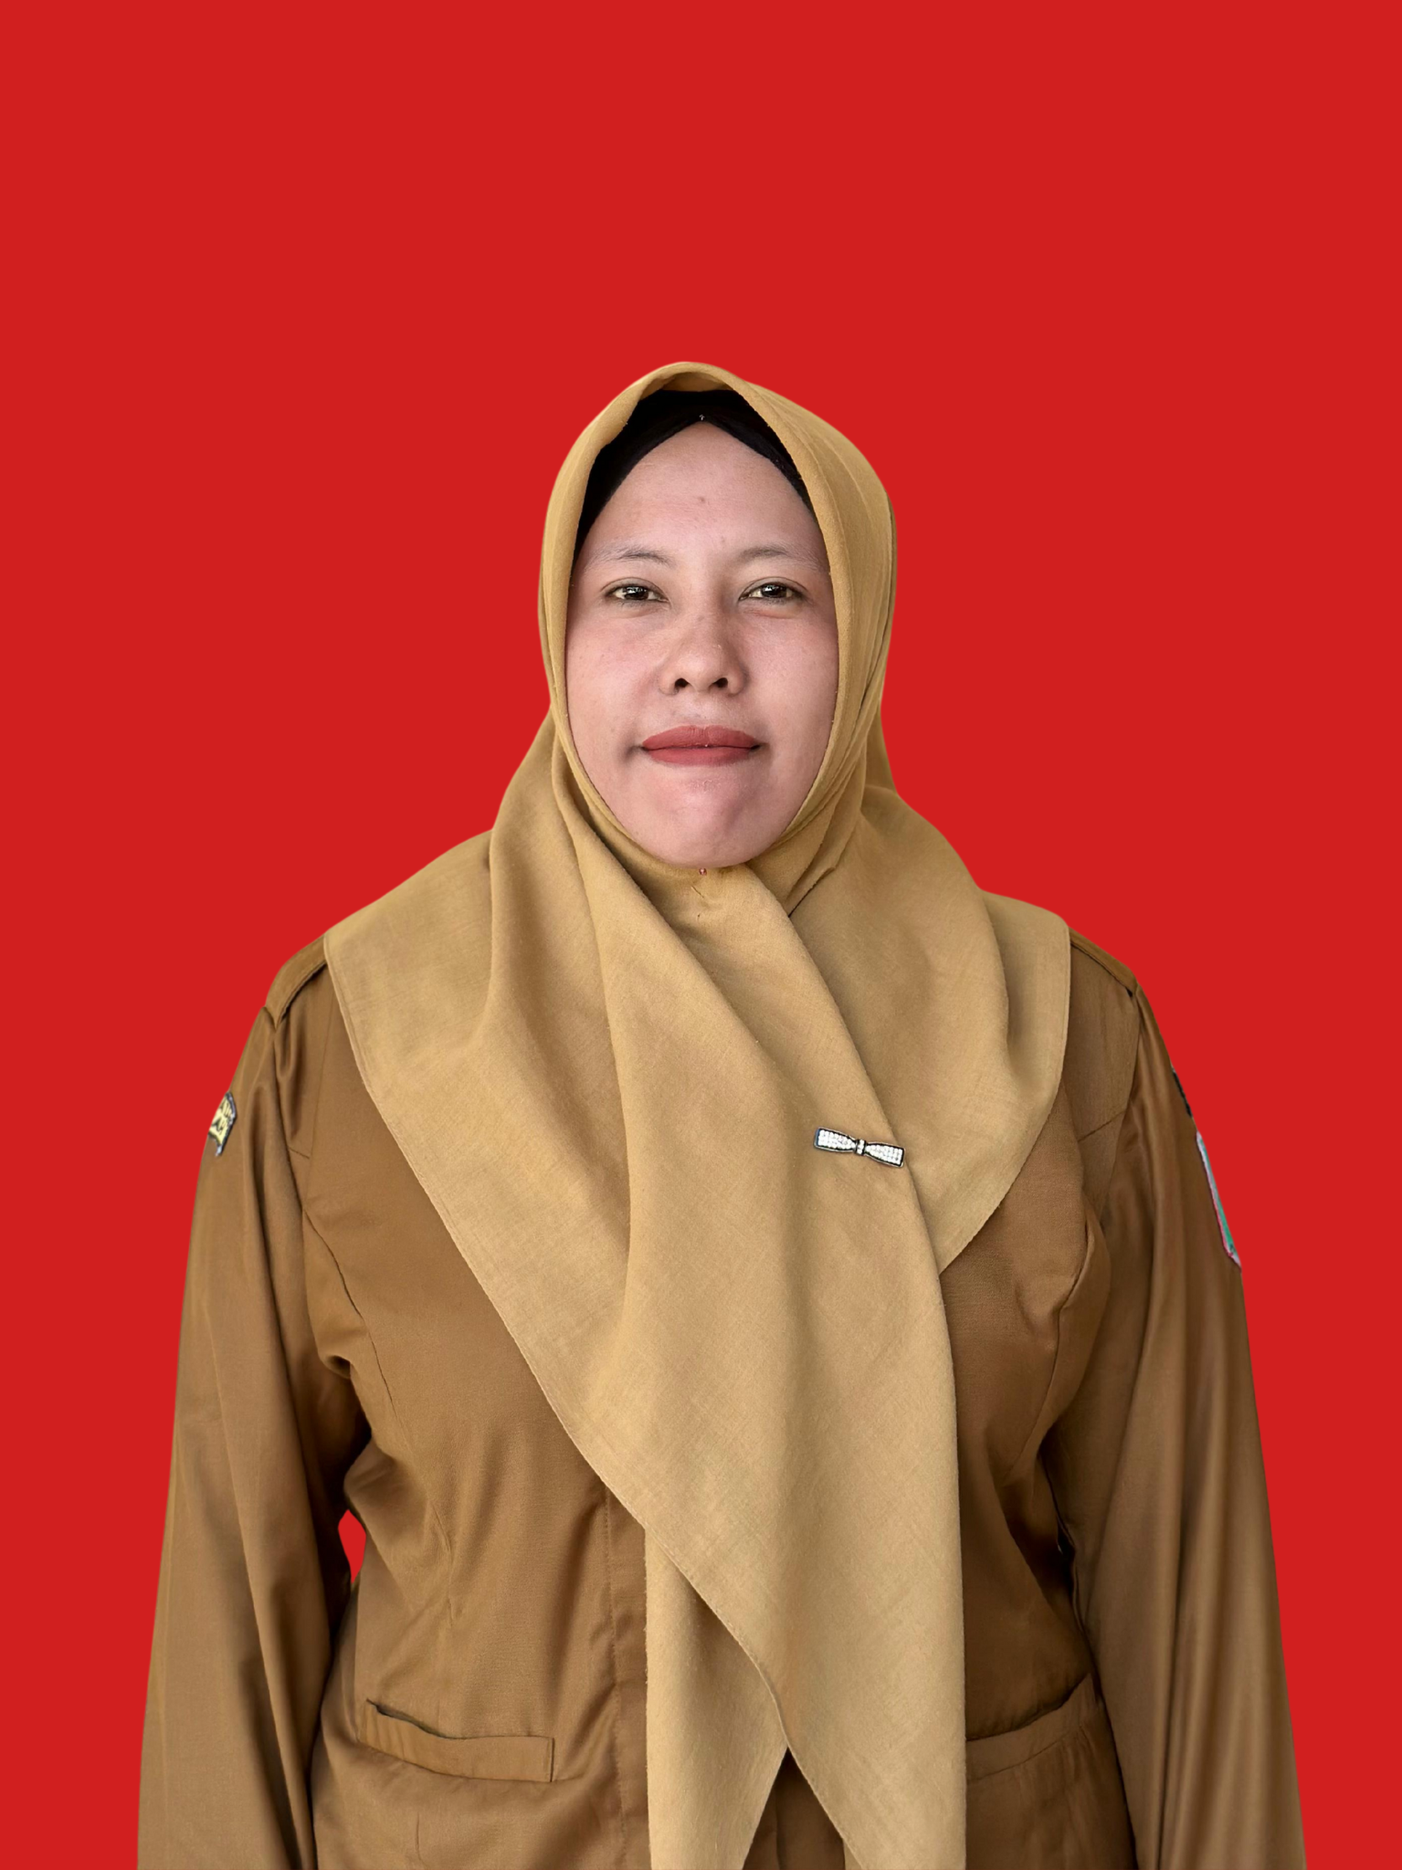
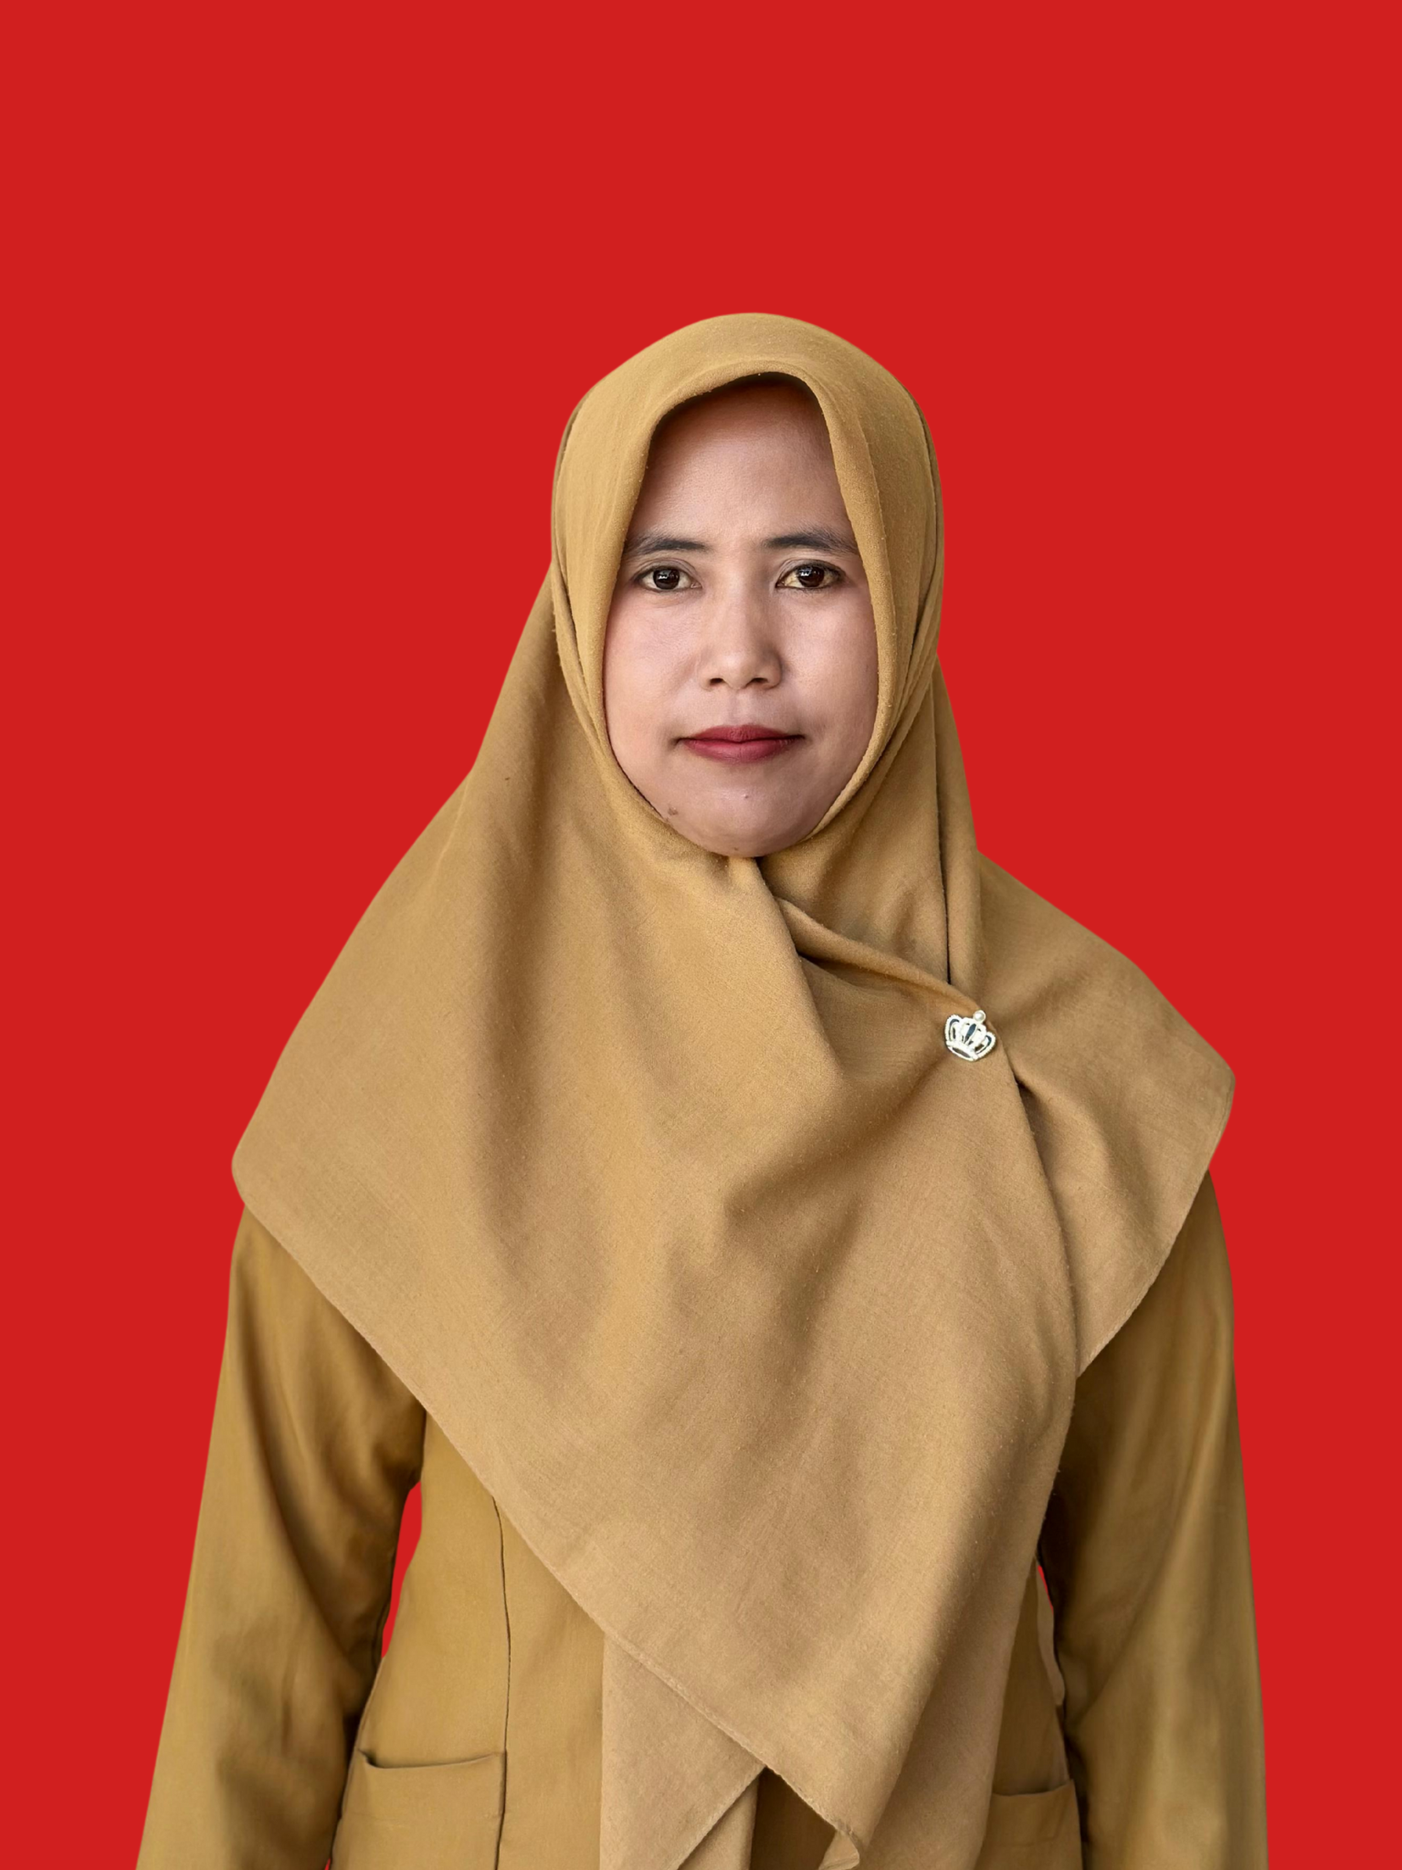
final web

diff --git a/src/pages/Profil.jsx b/src/pages/Profil.jsx
@@ -1,23 +1,13 @@
-// import React from 'react'
 import React, { useState } from 'react';
-import { Link } from 'react-router-dom';
-import { MapPin, Navigation, Phone, Mail } from 'lucide-react';
-
 import Slider from "react-slick";
 import { FaChevronLeft, FaChevronRight } from "react-icons/fa";
 
-import { IoIosHome } from "react-icons/io";
-import { FaChartBar } from "react-icons/fa";
-import { FaStore } from "react-icons/fa";
 import { CiLocationOn } from "react-icons/ci";
 import { IoCallOutline } from "react-icons/io5";
 import { CiMail } from "react-icons/ci";
 import { FaFacebook } from "react-icons/fa";
 import { FaSquareInstagram } from "react-icons/fa6";
-import { FaYoutube } from "react-icons/fa";
-import { FaTiktok } from "react-icons/fa";
 
-import desa from '../images/bgdesa.jpg'; 
 import sejarah from '../images/sejarah.jpg'; 
 import logo from '../images/logo.png'; 
 import bagan from '../images/bagan.png'; 
@@ -32,9 +22,9 @@ import kaum from '../images/perdesa/abdulhakim.png';
 import kuu from '../images/perdesa/satimin.png';
 import ksp from '../images/perdesa/nurhayati.png';
 import kspm from '../images/perdesa/rohman.png';
-
-
-
+import kuk from '../images/perdesa/helmi.png';
+import kup from '../images/perdesa/asan.png';
+import ksk from '../images/perdesa/abdulkholik.png';
 import kasteng from '../images/perdesa/ririd.png';
 import kaspel from '../images/perdesa/amir.png';
 import kasbring from '../images/perdesa/buari.png';
@@ -67,19 +57,19 @@ const perangkatDesa = [
     foto: kspm,
   },
   {
-    nama: "test6",
-    jabatan: "Senior Business Consultant",
-    foto: kades,
+    nama: "Helmi Afdilatur Rohma",
+    jabatan: "Kepala Urusan Keuangan",
+    foto: kuk,
   },
   {
-    nama: "test7",
-    jabatan: "Senior Business Consultant",
-    foto: kades,
+    nama: "Asan",
+    jabatan: "Kepala Urusan Perencanaan",
+    foto: kup,
   },
   {
-    nama: "test8",
-    jabatan: "Senior Business Consultant",
-    foto: kades,
+    nama: "Abdul Kholik",
+    jabatan: "Kepala Seksi Kesejahteraan",
+    foto: ksk,
   },
   {
     nama: "Ririd",
@@ -102,41 +92,41 @@ function Profil() {
   const [isMenuOpen, setIsMenuOpen] = useState(false);
   const CustomPrevArrow = (props) => (
     <div
-      className="absolute left-[-30px] top-1/2 transform -translate-y-1/2 z-10 cursor-pointer text-teal-400"
+      className="absolute left-[-30px] top-1/2 transform -translate-y-1/2 z-10 cursor-pointer text-black"
       onClick={props.onClick}
     >
-      <FaChevronLeft size={36} />
+      <FaChevronLeft size={40} />
     </div>
   );
 
   const CustomNextArrow = (props) => (
     <div
-      className="absolute right-[-30px] top-1/2 transform -translate-y-1/2 z-10 cursor-pointer text-teal-400"
+      className="absolute right-[-30px] top-1/2 transform -translate-y-1/2 z-10 cursor-pointer text-black"
       onClick={props.onClick}
     >
-      <FaChevronRight size={36} />
+      <FaChevronRight size={40} />
     </div>
   );
   const settings = {
     dots: false,
     infinite: true,
     speed: 500,
-    slidesToShow: 5, // default for desktop
+    slidesToShow: 6, 
     slidesToScroll: 1,
     prevArrow: <CustomPrevArrow />,
     nextArrow: <CustomNextArrow />,
     responsive: [
         {
         breakpoint: 1280, // lg screen
-        settings: { slidesToShow: 4 },
+        settings: { slidesToShow: 5 },
         },
         {
         breakpoint: 1024, // md screen
-        settings: { slidesToShow: 3 },
+        settings: { slidesToShow: 4 },
         },
         {
         breakpoint: 640, // sm screen
-        settings: { slidesToShow: 2 },
+        settings: { slidesToShow: 3 },
         },
     ],
     };
@@ -145,11 +135,6 @@ function Profil() {
         lat: -7.9890703,
         lng: 113.2306519,
         address: "Jl. Gn. Ringgit, Bringinan, Tegalciut, Kec. Klakah, Kabupaten Lumajang, Jawa Timur 67356"
-    };
-
-    const handleMapClick = () => {
-        const googleMapsUrl = `https://www.google.com/maps/search/?api=1&query=${balaiLocation.lat},${balaiLocation.lng}`;
-        window.open(googleMapsUrl, '_blank');
     };
 
     useEffect(() => {
@@ -184,8 +169,7 @@ function Profil() {
                 </svg>
                 </button>
             </div>
-            {/* Navigation Links (Desktop & Mobile) */}
-            {/* For desktop: flex, For mobile: hidden by default, visible when menu is open */}
+            {/* menu */}
             <nav className={`${isMenuOpen ? 'block' : 'hidden'} md:flex md:space-x-6 absolute md:static top-16 right-4 bg-white md:bg-transparent p-4 md:p-0 rounded-lg shadow-lg md:shadow-none w-48 md:w-auto`}>
                 <ul className='flex flex-col md:flex-row md:space-x-6 space-y-2 md:space-y-0'>
                 <li>
@@ -231,7 +215,7 @@ function Profil() {
             <img src={bagan} alt="Bagan Organisasi Desa Tegal Ciut" className="w-full h-auto max-h-[600px] object-contain" />
         </div>
 
-        {/* struktur organisasi */}
+        {/* perangkat desa */}
         <div className='flex flex-col px-4 py-8 max-w-6xl mx-auto text-center' data-aos="zoom-in" data-aos-delay="400">
             <h2 className="text-2xl md:text-3xl font-bold text-slate-800 mb-9 font-raleway">Perangkat Desa Tegal Ciut</h2>
             <div className="relative w-full max-w-6xl mx-auto">
@@ -346,8 +330,8 @@ function Profil() {
 
         {/* sosmed */}
         <div className='flex justify-end px-9 py-5 gap-3'>
-          <a href="https://www.facebook.com/profile.php?id=61578902762060" target="_blank"><FaFacebook size={30} /></a>
-          <a href="https://www.instagram.com/desa_tegalciut_lumajang" target="_blank" ><FaSquareInstagram size={30} /></a>
+          <a href="https://www.facebook.com/profile.php?id=61578902762060" target="_blank" rel="noopener noreferrer"><FaFacebook size={30} /></a>
+          <a href="https://www.instagram.com/desa_tegalciut_lumajang" target="_blank" rel="noopener noreferrer"><FaSquareInstagram size={30} /></a>
         </div>
 
         <footer className="text-black text-center border-t border-black py-4 text-sm">

diff --git a/src/pages/Infografis.jsx b/src/pages/Infografis.jsx
@@ -2,16 +2,11 @@
 import React, { useState } from 'react';
 import { Link } from 'react-router-dom';
 
-import { IoIosHome } from "react-icons/io";
-import { FaChartBar } from "react-icons/fa";
-import { FaStore } from "react-icons/fa";
 import { CiLocationOn } from "react-icons/ci";
 import { IoCallOutline } from "react-icons/io5";
 import { CiMail } from "react-icons/ci";
 import { FaFacebook } from "react-icons/fa";
 import { FaSquareInstagram } from "react-icons/fa6";
-import { FaYoutube } from "react-icons/fa";
-import { FaTiktok } from "react-icons/fa";
 import { IoPeople } from "react-icons/io5";
 import { FaPeopleRoof } from "react-icons/fa6";
 import { IoIosWoman } from "react-icons/io";
@@ -19,16 +14,15 @@ import { IoMdMan } from "react-icons/io";
 import { BsPeopleFill } from "react-icons/bs";
 import { FaGlobe } from "react-icons/fa";
 
-import desa from '../images/bgdesa.jpg'; 
 import sdgs from '../images/sdgs.jpg'; 
 import logo from '../images/logo.png'; 
-import kue from '../images/kuekripik.jpg'; 
+import demografi from '../images/demografi.jpg'; 
 
 import AOS from 'aos';
 import 'aos/dist/aos.css';
 import { useEffect } from 'react';
 
-// conponents
+// components
 import Diagrampenduduk from '../components/Diagrampenduduk';
 import SDGsCardGrid from '../components/SDGsCardGrid';
 import Diagramdusun from '../components/DiagramDusun';
@@ -63,13 +57,13 @@ function Infografis() {
             {/* burger menu */}
             <div className='md:hidden'>
                 <button onClick={() => setIsMenuOpen(!isMenuOpen)} className='text-gray-800 focus:outline-none'>
-                <svg className='w-8 h-8' fill='none' stroke='currentColor' viewBox='0 0 24 24' xmlns='http://www.w3.org/2000/svg'>
-                    {isMenuOpen ? (
-                    <path strokeLinecap='round' strokeLinejoin='round' strokeWidth='2' d='M6 18L18 6M6 6l12 12'></path>
-                    ) : (
-                    <path strokeLinecap='round' strokeLinejoin='round' strokeWidth='2' d='M4 6h16M4 12h16M4 18h16'></path>
-                    )}
-                </svg>
+                    <svg className='w-8 h-8' fill='none' stroke='currentColor' viewBox='0 0 24 24' xmlns='http://www.w3.org/2000/svg'>
+                        {isMenuOpen ? (
+                        <path strokeLinecap='round' strokeLinejoin='round' strokeWidth='2' d='M6 18L18 6M6 6l12 12'></path>
+                        ) : (
+                        <path strokeLinecap='round' strokeLinejoin='round' strokeWidth='2' d='M4 6h16M4 12h16M4 18h16'></path>
+                        )}
+                    </svg>
                 </button>
             </div>
             {/* Navigation Links (Desktop & Mobile) */}
@@ -101,19 +95,19 @@ function Infografis() {
                     onClick={() => setActiveTab('demografi')}
                     className={`flex flex-col items-center justify-center px-4 py-2 font-semibold w-28 sm:w-32 md:w-36 text-center ${activeTab === 'demografi' ? ' border border-black rounded-xl' : 'text-black '}`}
                     >
-                    <BsPeopleFill size={45} className='flex text-3xl sm:text-4xl md:text-5xl '/>
-                    <span className='text-sm sm:text-base md:text-lg'>
-                        Demografi
-                    </span>
+                        <BsPeopleFill size={45} className='flex text-3xl sm:text-4xl md:text-5xl '/>
+                        <span className='text-sm sm:text-base md:text-lg'>
+                            Demografi
+                        </span>
                     </button>
                     <button
                     onClick={() => setActiveTab('sdgs')}
                     className={`flex flex-col items-center justify-center px-4 py-2 font-semibold w-28 sm:w-32 md:w-36 text-center  ${activeTab === 'sdgs' ? 'border border-black rounded-xl' : 'text-black'}`}
                     >
-                    <FaGlobe size={45} className='flex ' />
-                    <span className='text-sm sm:text-base md:text-lg'>
-                        SDGs
-                    </span>
+                        <FaGlobe size={45} className='flex ' />
+                        <span className='text-sm sm:text-base md:text-lg'>
+                            SDGs
+                        </span>
                     </button>
                 </div>
             </div>
@@ -124,7 +118,7 @@ function Infografis() {
                     {/* atas */}
                     <div className='flex flex-col md:flex-row gap-6 items-center'>
                         <div className='w-full md:w-1/2' data-aos="zoom-in" data-aos-delay="400">
-                            <img src={kue} alt="" className="w-[500px] h-auto object-cover rounded-xl"/>
+                            <img src={demografi} alt="" className="w-[500px] h-auto object-cover rounded-xl"/>
                         </div>
                         <div className='w-full md:w-1/2 text-justify' data-aos="zoom-in" data-aos-delay="400">
                             <h2 className='text-xl md:text-2xl font-bold mb-2 text-slate-800'>DEMOGRAFI DESA TEGAL CIUT</h2>
@@ -156,7 +150,6 @@ function Infografis() {
                                     <p className="font-nunito text-lg">643 Jiwa/km²</p>
                                 </div>
                             </div>
-
                             {/* Kartu 3 */}
                             <div className="flex bg-slate-100 p-4 rounded-xl items-center gap-4 shadow" data-aos="zoom-in" data-aos-delay="400">
                                 <IoIosWoman size={56} className="text-pink-500" />
@@ -165,7 +158,6 @@ function Infografis() {
                                     <p className="font-nunito text-lg">2.309 Jiwa</p>
                                 </div>
                             </div>
-
                             {/* Kartu 4 */}
                             <div className="flex bg-slate-100 p-4 rounded-xl items-center gap-4 shadow" data-aos="zoom-in" data-aos-delay="400">
                                 <IoMdMan size={56} className="text-green-500" />

diff --git a/src/pages/Dashboard.jsx b/src/pages/Dashboard.jsx
@@ -1,4 +1,3 @@
-// import React from 'react'
 import React, { useState } from 'react';
 import { Link } from 'react-router-dom';
 
@@ -10,11 +9,8 @@ import { IoCallOutline } from "react-icons/io5";
 import { CiMail } from "react-icons/ci";
 import { FaFacebook } from "react-icons/fa";
 import { FaSquareInstagram } from "react-icons/fa6";
-import { FaYoutube } from "react-icons/fa";
-import { FaTiktok } from "react-icons/fa";
 
 import desa from '../images/bgdesa.jpg'; 
-import kkn from '../images/logokkn.png'; 
 import logo from '../images/logo.png'; 
 
 import { Swiper, SwiperSlide } from 'swiper/react';
@@ -32,7 +28,6 @@ import img3 from '../images/img3.jpg';
 import img4 from '../images/img4.jpg';
 import img5 from '../images/img5.jpg';
 import sambut from '../images/sambutan.png';
-
 
 
 function Dashboard() {
@@ -69,8 +64,7 @@ function Dashboard() {
                 </svg>
               </button>
             </div>
-            {/* Navigation Links (Desktop & Mobile) */}
-            {/* For desktop: flex, For mobile: hidden by default, visible when menu is open */}
+            {/* menu */}
             <nav className={`${isMenuOpen ? 'block' : 'hidden'} md:flex md:space-x-6 absolute md:static top-16 right-4 bg-white md:bg-transparent p-4 md:p-0 rounded-lg shadow-lg md:shadow-none w-48 md:w-auto`}>
               <ul className='flex flex-col md:flex-row md:space-x-6 space-y-2 md:space-y-0'>
                 <li>
@@ -90,9 +84,8 @@ function Dashboard() {
         </header>
         {/* selamat datang atas */}
         <div className="w-full bg-white" data-aos="zoom-in">
-        {/* Container gambar 75% */}
           <div className="relative w-full h-[50vh]">
-            {/* Gambar full cover */}
+            {/* atas */}
             <img
               src={desa}
               alt="Gambar Desa"
@@ -124,18 +117,18 @@ function Dashboard() {
             <div className='flex flex-col w-full md:w-[45%] items-center text-center gap-2' data-aos="zoom-in" data-aos-delay="400">
               <IoIosHome size={48} color="#46B5B6" />
               <p className='font-bold text-[#237274]'>Profil Desa</p>
-              <p className='text-sm'>Driving innovation and digital transformation to help tech companies scale and thrive in a competitive landscape.</p>
+              <p className='text-sm'>Temukan informasi lengkap seputar progilfil Desa Tegal Ciut.</p>
             </div>
             <div className='flex flex-col w-full md:w-[45%] items-center text-center gap-2' data-aos="zoom-in" data-aos-delay="400">
               <FaChartBar size={48} color="#46B5B6" />
               <p className='font-bold text-[#237274]'>Infografis</p>
-              <p className='text-sm'>Enhancing profitability and managing financial risks with expert advisory tailored for the financial sector.</p>
+              <p className='text-sm'>Data Statistik seputar kependudukan Desa Tegal Ciut .</p>
             </div>
           </div>
           <div className='flex flex-col w-[90%] md:w-[45%] items-center text-center gap-2' data-aos="zoom-in" data-aos-delay="400">
             <FaStore size={48} className='text-center' color="#46B5B6" />
             <p className='font-bold text-[#237274]'>UMKM</p>
-            <p className='text-sm'>Enhancing profitability and managing financial risks with expert advisory tailored for the financial sector.</p>
+            <p className='text-sm'>Jelajahi UMKM di Desa Tegal Ciut.</p>
           </div>
         </div>
         

diff --git a/src/pages/Umkm.jsx b/src/pages/Umkm.jsx
@@ -2,19 +2,12 @@
 import React, { useState } from 'react';
 import { Link } from 'react-router-dom';
 
-import { IoIosHome } from "react-icons/io";
-import { FaChartBar } from "react-icons/fa";
-import { FaStore } from "react-icons/fa";
 import { CiLocationOn } from "react-icons/ci";
 import { IoCallOutline } from "react-icons/io5";
 import { CiMail } from "react-icons/ci";
 import { FaFacebook } from "react-icons/fa";
 import { FaSquareInstagram } from "react-icons/fa6";
-import { FaYoutube } from "react-icons/fa";
-import { FaTiktok } from "react-icons/fa";
 
-import desa from '../images/bgdesa.jpg'; 
-import kkn from '../images/logokkn.png'; 
 import logo from '../images/logo.png'; 
 import besi from '../images/besisano.jpg'; 
 import kue from '../images/kuekripik.jpg'; 
@@ -58,8 +51,7 @@ function Umkm() {
                 </svg>
                 </button>
             </div>
-            {/* Navigation Links (Desktop & Mobile) */}
-            {/* For desktop: flex, For mobile: hidden by default, visible when menu is open */}
+            {/* menu */}
             <nav className={`${isMenuOpen ? 'block' : 'hidden'} md:flex md:space-x-6 absolute md:static top-16 right-4 bg-white md:bg-transparent p-4 md:p-0 rounded-lg shadow-lg md:shadow-none w-48 md:w-auto`}>
                 <ul className='flex flex-col md:flex-row md:space-x-6 space-y-2 md:space-y-0'>
                 <li>

diff --git a/src/components/CardAgama.jsx b/src/components/CardAgama.jsx
@@ -5,13 +5,13 @@ import { FaToriiGate } from 'react-icons/fa6';
 import { MdOutlineCircle } from 'react-icons/md';
 
 const agamaData = [
-  { name: 'Islam', value: 1147, icon: <FaMosque className="text-green-600 text-5xl" /> },
+  { name: 'Islam', value: 2377, icon: <FaMosque className="text-green-600 text-5xl" /> },
+  { name: 'Kristen', value: 4, icon: <FaCross className="text-green-600 text-5xl" /> },
+  { name: 'Katolik', value: 0, icon: <FaBible className="text-green-700 text-5xl" /> },
+  { name: 'Hindu', value: 0, icon: <FaOm className="text-green-700 text-5xl" /> },
   { name: 'Buddha', value: 0, icon: <GiLotus className="text-yellow-500 text-5xl" /> },
   { name: 'Konghucu', value: 0, icon: <FaToriiGate className="text-green-700 text-5xl" /> },
   { name: 'Kepercayaan lainnya', value: 0, icon: <MdOutlineCircle className="text-gray-500 text-5xl" /> },
-  { name: 'Kristen', value: 0, icon: <FaCross className="text-green-600 text-5xl" /> },
-  { name: 'Katolik', value: 0, icon: <FaBible className="text-green-700 text-5xl" /> },
-  { name: 'Hindu', value: 0, icon: <FaOm className="text-green-700 text-5xl" /> },
 ];
 
 const CardAgama = () => {
